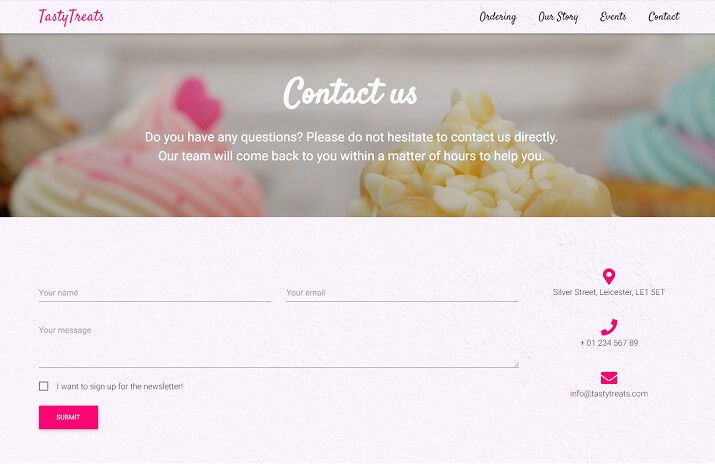
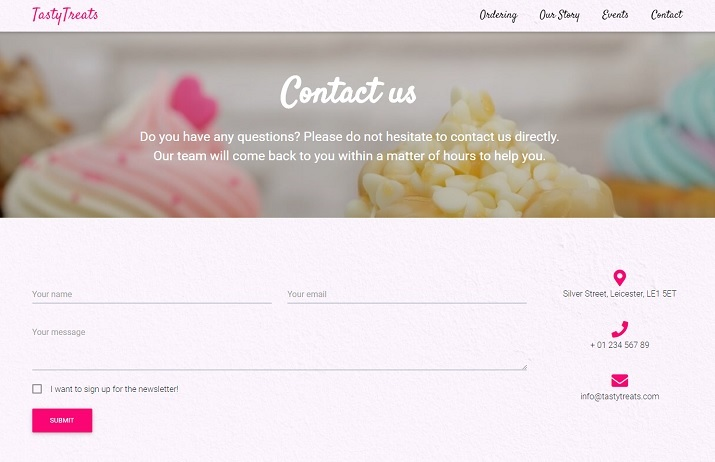
padding fix

diff --git a/app.js b/app.js
@@ -53,7 +53,6 @@ app.use(bodyParser.json());
 app.use(bodyParser.urlencoded({
   extended: true
 }));
-//<!-- End -->
 
 //<!-- Creating session -->
 app.use(session({
@@ -64,12 +63,10 @@ app.use(session({
   resave: false,
   saveUninitialized: false
 }));
-//<!-- End -->
 
 //<! --Setting Passport.js for user authorisation -->
 app.use(passport.initialize());
 app.use(passport.session());
-//<!--End-->
 
 //<! --Connecting to local or online database -->
 mongoose.connect(process.env.MONGODB_URI || 'mongodb://localhost:27017/tasty-treatsDB', {
@@ -77,11 +74,9 @@ mongoose.connect(process.env.MONGODB_URI || 'mongodb://localhost:27017/tasty-tre
   useUnifiedTopology: true,
   useFindAndModify: false
 });
-//<!-- End -->
 
 //<!-- For depreciation warning -->
 mongoose.set('useCreateIndex', true);
-//<!--End-->
 
 //<!-- Getting homepage route -->
 app.get('/', (req, res) => {
@@ -89,7 +84,6 @@ app.get('/', (req, res) => {
     title: 'Tasty Treats | Contact'
   });
 });
-//<!-- End -->
 
 //<!-- Getting secret page route -->
 app.get('/forms', (req, res) => {

diff --git a/public/scss/styles.scss b/public/scss/styles.scss
@@ -221,7 +221,7 @@ footer {
   }
 
   .mb-4 {
-    padding-right: 16%;
+    padding-right: 15%;
     padding-left: 18%;
   }
 }
@@ -237,6 +237,7 @@ footer {
     padding-left: 9%;
   }
 }
+
 @media screen and (min-width: 992px) {
   .navbar-expand-lg .navbar-nav .nav-link {
     padding-left: 2.2rem !important;
@@ -266,6 +267,7 @@ footer {
     padding-right: 12%;
   }
 }
+
 @media screen and (max-width: 499px) {
   .navbar {
     padding-left: 5%;

diff --git a/public/css/styles.css b/public/css/styles.css
@@ -177,7 +177,7 @@ footer {
     padding-left: 18%;
     padding-right: 17%; }
   .mb-4 {
-    padding-right: 16%;
+    padding-right: 15%;
     padding-left: 18%; } }
 
 @media screen and (max-width: 1299px) and (min-width: 992px) {
